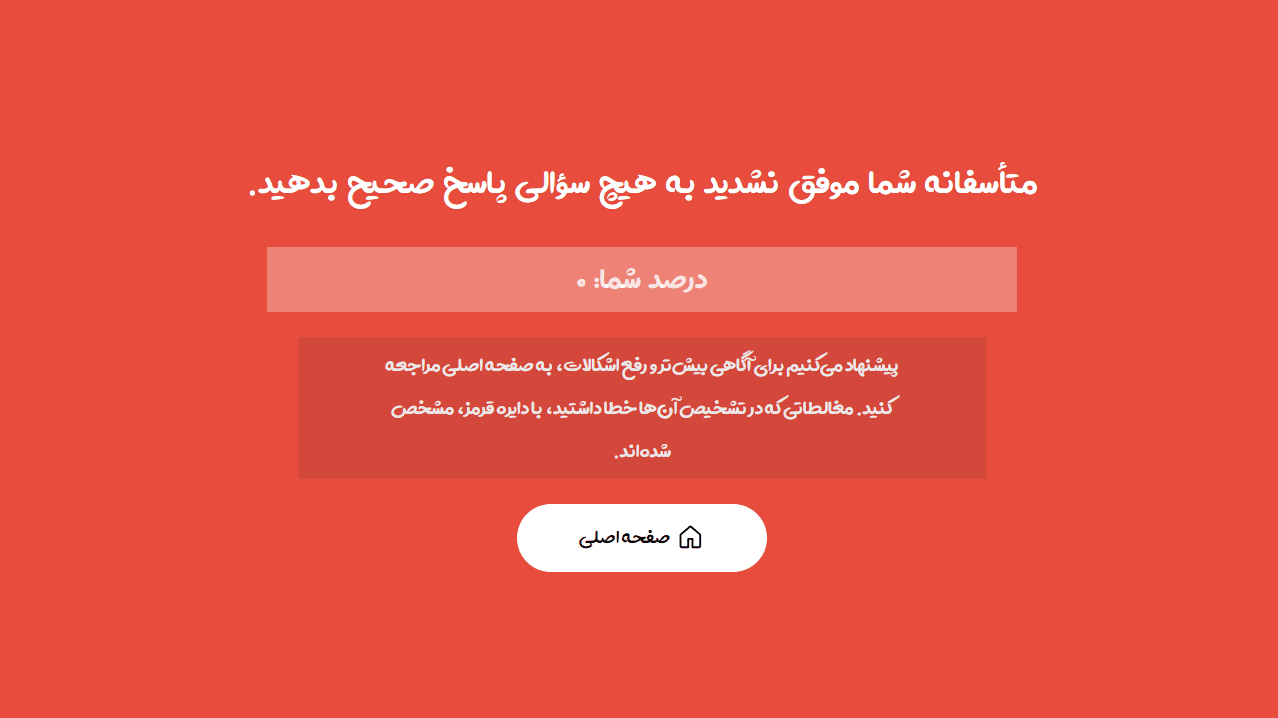
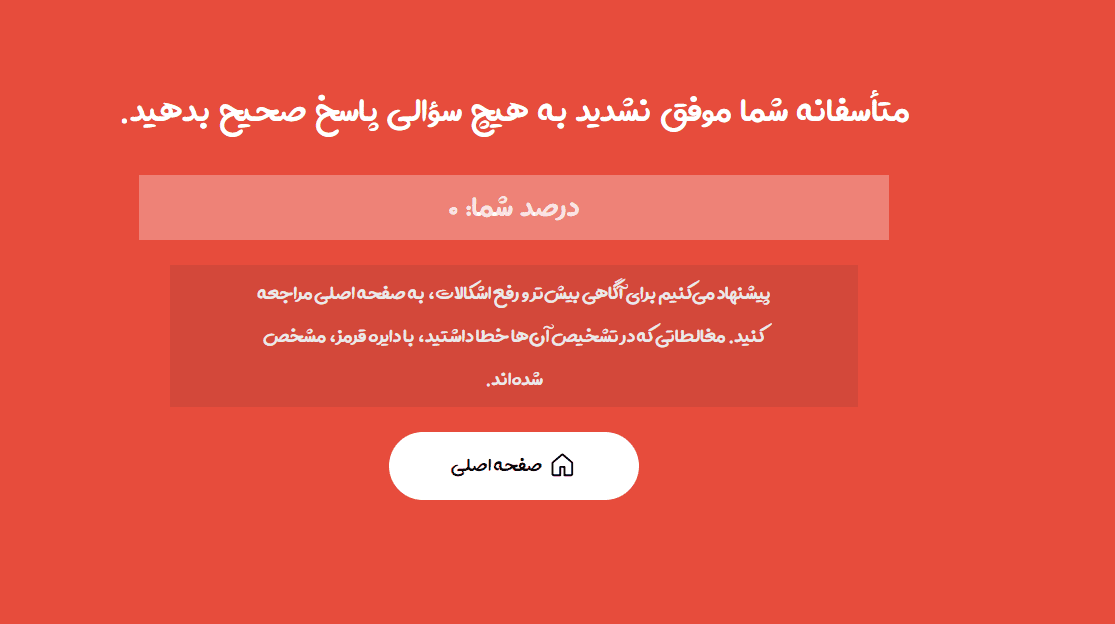
Make Desktop Screenshots Same Size

Changed region(s): [[0.122, 0.1522, 0.8233, 0.6394], [0.3354, 0.6699, 0.6099, 0.8221]]

diff --git a/gatsby-config.js b/gatsby-config.js
@@ -67,35 +67,35 @@ module.exports = {
           },
           {
             src: "/fallacies/screenshots/6.png",
-            sizes: "1117x636",
+            sizes: "1115x624",
             type: "image/png",
             label: "صفحه اصلی با مشخص بودن مغالطاتی که نیاز به مرور دارند",
             form_factor: "wide",
           },
           {
             src: "/fallacies/screenshots/7.png",
-            sizes: "1120x640",
+            sizes: "1115x624",
             type: "image/png",
             label: "توضیحات و مثالهای هر مغالطه",
             form_factor: "wide",
           },
           {
             src: "/fallacies/screenshots/8.png",
-            sizes: "1125x626",
+            sizes: "1115x624",
             type: "image/png",
             label: "کسی دچار مغالطه خاصی شده است؟ متنی که اپلیکیشن برای شما تولید میکند برای او بفرستید!",
             form_factor: "wide",
           },
           {
             src: "/fallacies/screenshots/9.png",
-            sizes: "1119x624",
+            sizes: "1115x624",
             type: "image/png",
             label: "بخش آزمون با قابلیت نمایش خطاها و مرور آنها",
             form_factor: "wide",
           },
           {
-            src: "/fallacies/screenshots/6.png",
-            sizes: "1278x718",
+            src: "/fallacies/screenshots/10.png",
+            sizes: "1115x624",
             type: "image/png",
             label: "بخش نتایج آزمون",
             form_factor: "wide",
